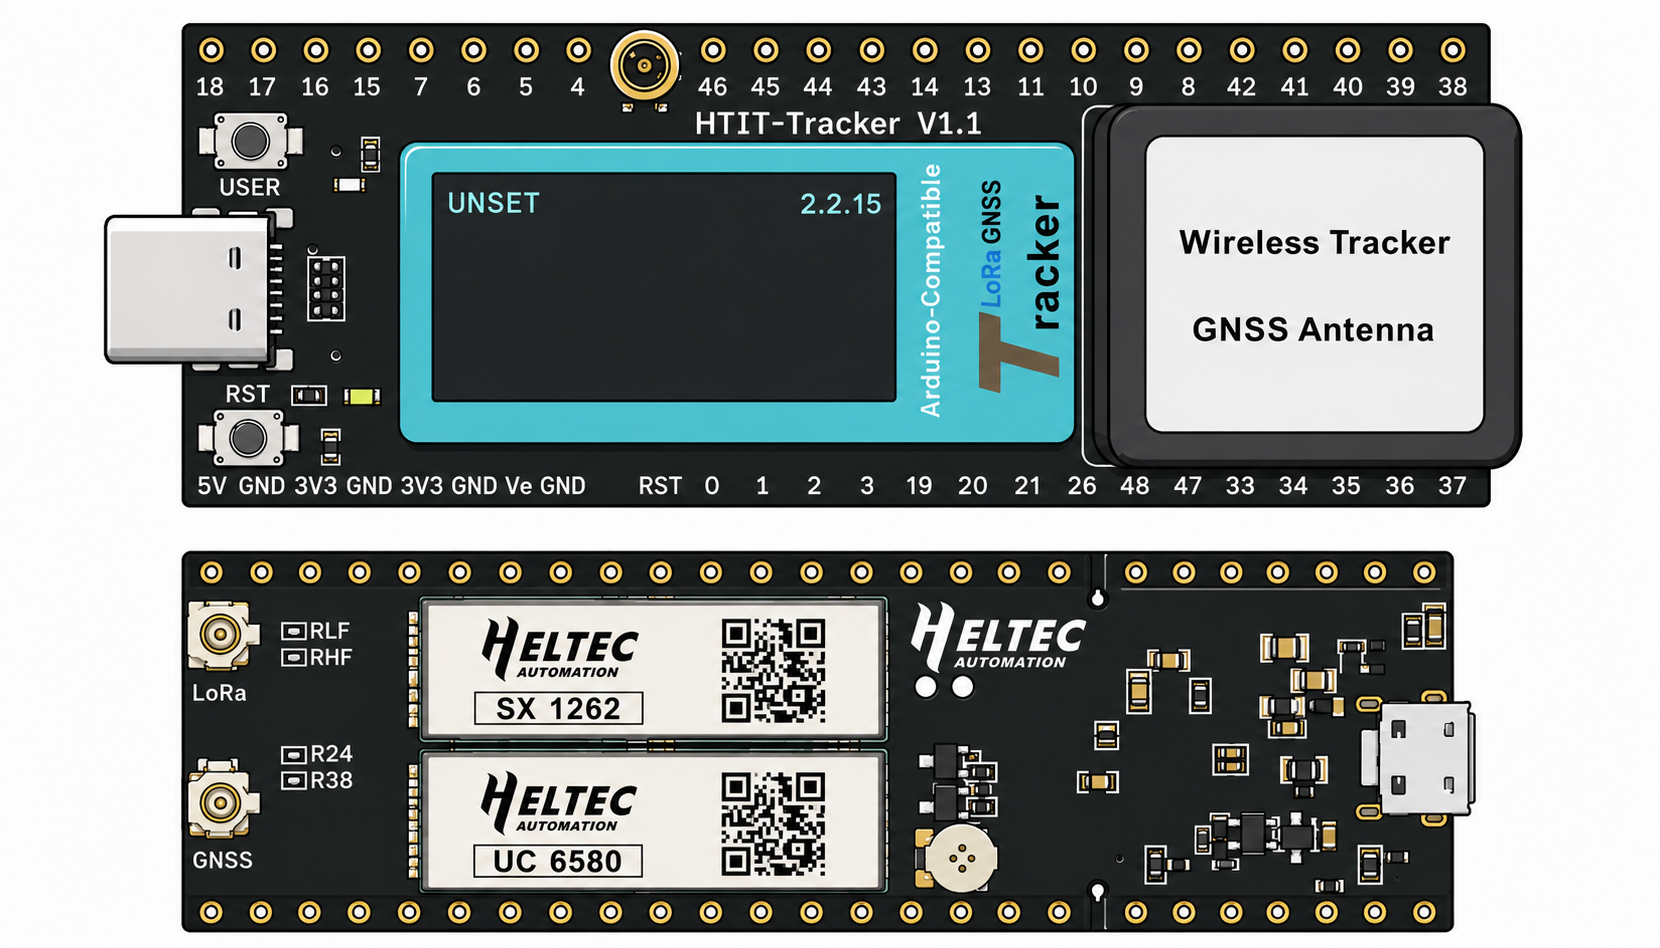
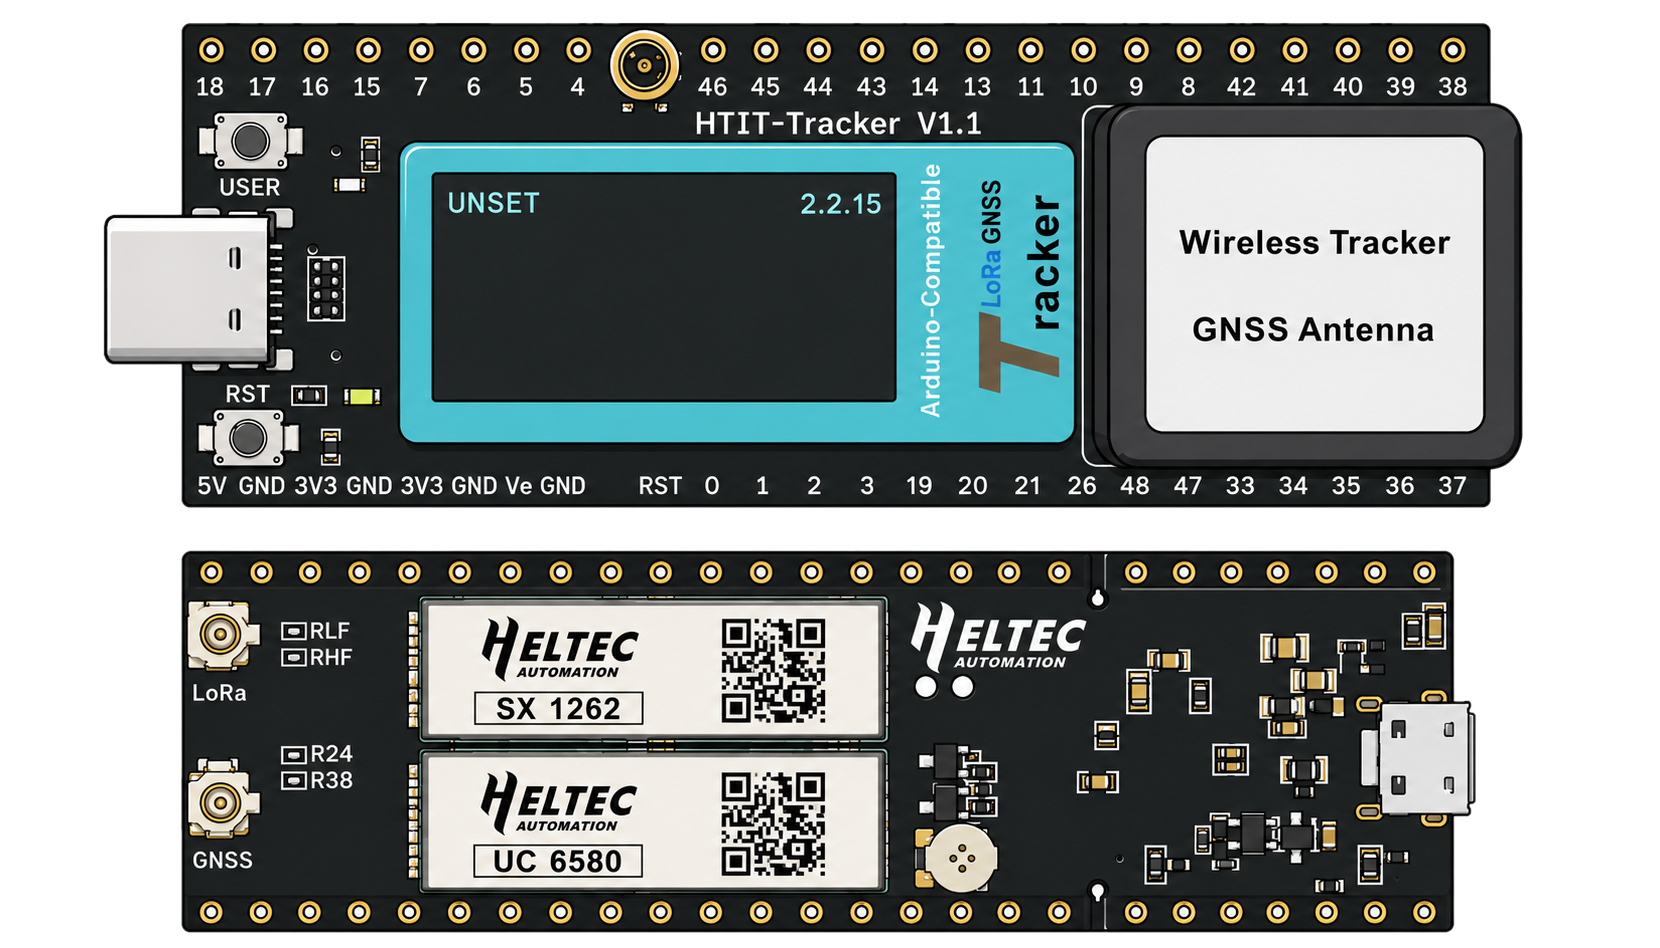
art: cut the studio white off every board photo — no more stickers
Operator, with the walkthrough on the panel: "if there is a white background,
clear it so the boards look like animations instead of stickers".

Half the catalogue was already cut (the Pi photos, the T114, the XIAO, the
EoRa illustration); nine boards plus the animation Pi were opaque rectangles
of studio white sitting on a black UI — and they are drawn INTO scenes now,
onto a Pi, beside the medic, at the end of a cable.

scripts/cut_board_art.py floods inward from the edges, never colour-keys
white: a board carries white silkscreen, white connector shells, white
labels, and the T-Echo's whole case is white. Only background actually
connected to the outside goes. Same method as pi_zero_2w_cut.png in
2026-08-04. One pixel of feather so the edge is not a cardboard cut-out.

Cut in place, with git as the only backup — one file per board, no "_cut"
twin to keep in sync. Looked at all ten on a dark ground before committing;
guarded by a test that measures alpha, plus one that checks the T-Echo and
the RAK kept their own white.

Also clamps ProvisionOverCableAnim to the stage: sized from height alone it
ran off both sides of the 720-wide panel and the medic was cut in half by the
screen edge. Kivy does not clip a canvas — overflow paints over its
neighbours.

diff --git a/scripts/cut_board_art.py b/scripts/cut_board_art.py
@@ -1,0 +1,110 @@
+"""Cut the white studio background off a board photo, so it is a board in a
+scene and not a sticker on the screen.
+
+The rule the operator set (2026-09-09, looking at the guided birth on the
+panel): "if there is a white background, clear it so the boards look like
+animations instead of stickers". Half the catalogue was already cut — the Pi
+photos, the T114, the XIAO, the EoRa illustration — and the rest were opaque
+rectangles of studio white sitting on a black UI.
+
+FLOOD-FILLED FROM THE EDGES, never "delete every white pixel". A board has
+white silkscreen, white connector shells and white text on it; a colour-key
+would eat those and leave holes in the middle of the hardware. Filling inward
+from the border only reaches background that is actually connected to the
+outside, which is the same method assets/ui/anim/pi_zero_2w_cut.png was made
+with in 2026-08-04.
+
+    python3 scripts/cut_board_art.py [--dry-run] [--thresh N] [files...]
+
+With no files it does every PNG under assets/boards plus the animation Pi.
+Already-cut art is skipped (it reports how much of each file is opaque, so a
+re-run is a check as much as a conversion). Originals are recoverable from git
+— that is deliberately the only backup, so there is one file per board and no
+"_cut" twin to keep in sync.
+"""
+import os
+import sys
+
+from PIL import Image, ImageDraw, ImageFilter
+
+ROOT = os.path.dirname(os.path.dirname(os.path.abspath(__file__)))
+
+#: A colour to paint the background with before turning it transparent. Checked
+#: against the image first — if the photo happens to contain it, the file is
+#: skipped rather than silently holed.
+MAGIC = (255, 0, 255)
+
+#: How far from the corner colour still counts as background. 40 keeps a soft
+#: studio gradient together without crossing onto a light-grey connector.
+DEFAULT_THRESH = 40
+
+
+def default_files():
+    d = os.path.join(ROOT, "assets", "boards")
+    out = [os.path.join(d, f) for f in sorted(os.listdir(d))
+           if f.endswith(".png")]
+    out.append(os.path.join(ROOT, "assets", "ui", "anim", "pi_zero_2w.png"))
+    return out
+
+
+def opaque_fraction(im):
+    a = im.convert("RGBA").split()[3]
+    hist = a.histogram()
+    total = sum(hist) or 1
+    return sum(hist[201:]) / total
+
+
+def cut(path, thresh=DEFAULT_THRESH, dry_run=False):
+    im = Image.open(path).convert("RGBA")
+    frac = opaque_fraction(im)
+    if frac < 0.97:
+        return f"skip (already cut, {frac:.0%} opaque)"
+    rgb = im.convert("RGB")
+    if MAGIC in rgb.getcolors(maxcolors=1 << 24) and False:
+        pass
+    colours = {c for _n, c in (rgb.getcolors(maxcolors=1 << 24) or [])}
+    if MAGIC in colours:
+        return "skip (image contains the fill colour)"
+    w, h = rgb.size
+    corners = [(0, 0), (w - 1, 0), (0, h - 1), (w - 1, h - 1)]
+    px = rgb.load()
+    if not all(min(px[c]) > 200 for c in corners):
+        return "skip (corners are not a light background)"
+    for c in corners:
+        ImageDraw.floodfill(rgb, c, MAGIC, thresh=thresh)
+    # Every pixel the fill reached becomes transparent...
+    filled = rgb.point(lambda v: v)          # copy
+    mask = Image.new("L", (w, h), 255)
+    fp = filled.load()
+    mp = mask.load()
+    for yy in range(h):
+        for xx in range(w):
+            if fp[xx, yy] == MAGIC:
+                mp[xx, yy] = 0
+    # ...and the boundary gets one pixel of softness, so the cut edge does not
+    # read as a cardboard cut-out. Blur only pulls the edge in; the interior is
+    # re-clamped to fully opaque afterwards.
+    soft = mask.filter(ImageFilter.GaussianBlur(1.2))
+    soft = Image.eval(soft, lambda v: 255 if v > 245 else v)
+    out = im.copy()
+    out.putalpha(soft)
+    if not dry_run:
+        out.save(path)
+    return f"cut ({opaque_fraction(out):.0%} opaque now)"
+
+
+def main(argv):
+    dry = "--dry-run" in argv
+    argv = [a for a in argv if a != "--dry-run"]
+    thresh = DEFAULT_THRESH
+    if "--thresh" in argv:
+        i = argv.index("--thresh")
+        thresh = int(argv[i + 1])
+        del argv[i:i + 2]
+    files = argv or default_files()
+    for f in files:
+        print(f"{os.path.basename(f):30s} {cut(f, thresh, dry)}")
+
+
+if __name__ == "__main__":
+    main(sys.argv[1:])

diff --git a/tests/test_audit_20260909_wording.py b/tests/test_audit_20260909_wording.py
@@ -230,3 +230,40 @@ def test_it_only_starts_once_the_wait_is_overdue():
         "the demonstration must be on the patience timer, not immediate"
     assert "_nav_token" in code[i - 300:i], \
         "and must not fire onto a step the operator has already left"
+
+
+# --- boards in a scene, not stickers on the screen --------------------------
+
+def test_no_board_photo_ships_as_an_opaque_white_rectangle():
+    """Operator, 2026-09-09, with the walkthrough on the panel: "if there is a
+    white background, clear it so the boards look like animations instead of
+    stickers". Half the catalogue was already cut; the rest were slabs of
+    studio white on a black UI. scripts/cut_board_art.py does it by flooding
+    inward from the edges, never by colour-keying white — a board has white
+    silkscreen, white shells and white text ON it."""
+    import glob
+    import os
+    from PIL import Image
+    bad = []
+    files = glob.glob("assets/boards/*.png")
+    files.append("assets/ui/anim/pi_zero_2w.png")
+    for f in files:
+        a = Image.open(f).convert("RGBA").split()[3].histogram()
+        opaque = sum(a[201:]) / (sum(a) or 1)
+        if opaque > 0.97:
+            bad.append(os.path.basename(f))
+    assert not bad, f"still on a solid background: {bad}"
+
+
+def test_the_cutter_leaves_white_that_is_part_of_the_board():
+    """The T-Echo is a WHITE-CASED device and the RAK is covered in white
+    labels. A colour-key would have eaten both; flooding from the edges must
+    not."""
+    from PIL import Image
+    import numpy as np
+    for name, want in (("techo", 0.25), ("rak4631", 0.10)):
+        a = np.asarray(Image.open(f"assets/boards/{name}.png").convert("RGBA"))
+        opaque = a[..., 3] > 200
+        white = (a[..., :3].min(axis=-1) > 225) & opaque
+        assert white.mean() > want * 0.5, \
+            f"{name}: its own white has been eaten ({white.mean():.2%})"

diff --git a/ui/widgets/birth_anims.py b/ui/widgets/birth_anims.py
@@ -1282,6 +1282,15 @@ class ProvisionOverCableAnim(_LoopAnim):
         pw = ph * (pi.width / float(pi.height))
         gap = max(dp(70), w * 0.18)
         total = pw + gap + mw
+        # FIT THE STAGE. Sized from HEIGHT alone, this scene ran off both sides
+        # of the medic's own portrait panel — the medic sprite was cut in half
+        # by the screen edge (read off a 720x1280 render, 2026-09-09). Kivy does
+        # not clip a canvas, so overflow is not a crop: it paints over whatever
+        # is beside it.
+        if total > w * 0.98:
+            k = (w * 0.98) / total
+            mh *= k; mw *= k; ph *= k; pw *= k; gap *= k
+            total = pw + gap + mw
         pxx = x + (w - total) / 2.0
         pyy = y + (h - ph) / 2.0
         mxx = pxx + pw + gap
